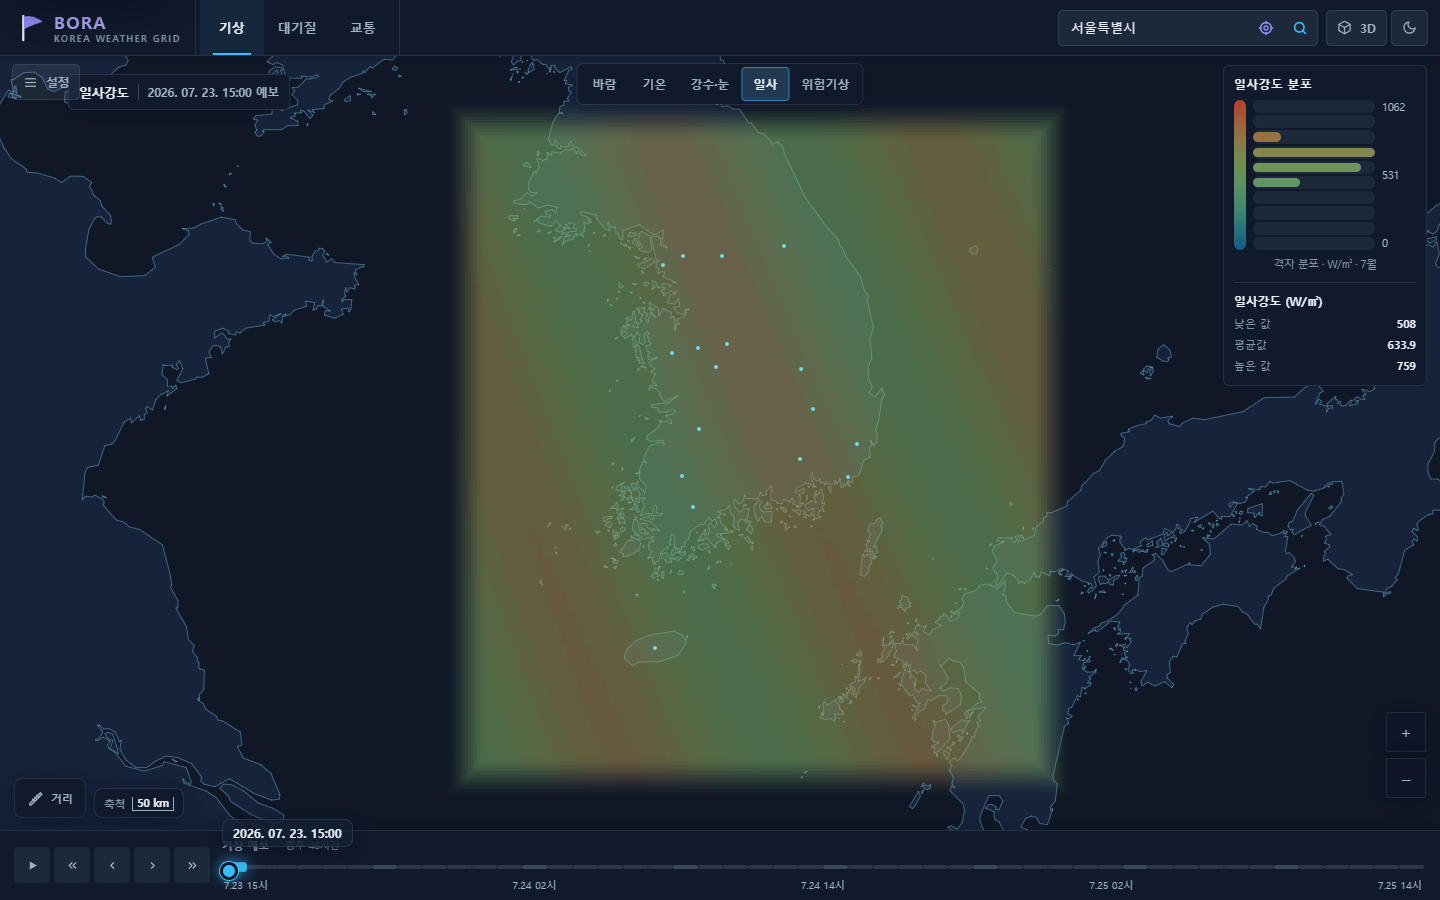
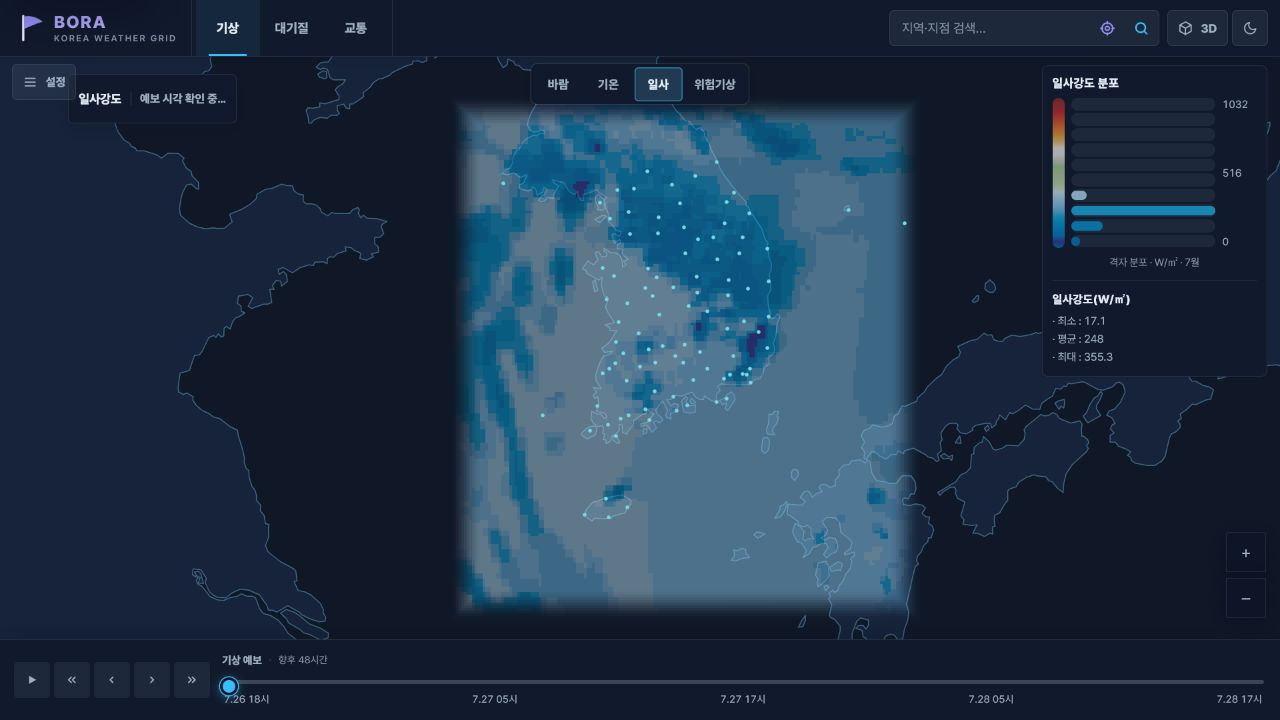
docs: 사용자 중심 README와 실제 화면 정리

diff --git a/README.md b/README.md
@@ -1,149 +1,184 @@
 <p align="center">
-  <img src="src/main/resources/static/favicon.svg" width="72" alt="BORA 로고">
+  <img src="src/main/resources/static/favicon.svg" width="76" alt="BORA 로고">
 </p>
 
 <h1 align="center">BORA · Korea Weather Grid</h1>
 
 <p align="center">
-  전국의 기상 격자 예보를 지도와 시간축으로 탐색하는 웹 애플리케이션입니다.<br>
-  바람의 흐름부터 기온·강수·습도·하늘상태·파고까지 한 화면에서 비교할 수 있습니다.
+  숫자로 흩어진 기상 예보를 <strong>지도 위의 흐름과 변화</strong>로 보여주는 웹 애플리케이션입니다.<br>
+  전국 격자부터 원하는 지점의 48시간 예보까지 한 화면에서 탐색할 수 있습니다.
 </p>
 
 <p align="center">
-  <a href="https://bora-weather.dlwnstndlwld.workers.dev"><strong>웹에서 BORA 열기</strong></a>
+  <a href="https://bora-weather.dlwnstndlwld.workers.dev"><strong>웹에서 바로 사용하기</strong></a>
+  ·
+  <a href="#빠르게-사용하기">사용 방법</a>
+  ·
+  <a href="#로컬에서-실행하기">로컬 실행</a>
 </p>
 
-![전국 바람 분포와 48시간 예보 시간축](docs/images/weather-overview.png)
+![전국 바람 분포와 향후 48시간 예보 시간축](docs/images/weather-overview.png)
 
-## BORA로 할 수 있는 일
+## 프로젝트 소개
 
-- 전국 기상 분포를 색상, 흐름선, 등치선으로 비교
-- 현재 발표 자료를 기준으로 향후 48시간 예보 탐색
-- 지역 검색 또는 지도 선택으로 지점별 풍향·풍속 시계열 확인
-- 범례에서 값의 범위와 전국 격자 분포 비율 확인
-- 현재 기상장을 3D 지형 또는 지구본으로 탐색
-- 대기질, 도로 CCTV, 위험기상 자료를 별도 레이어로 확인
-- 거리 측정, 대표 지점 표시, 어두운 테마와 밝은 테마 전환
+날씨 API를 화면에 붙여 보면 값 자체는 쉽게 확인할 수 있지만, **어디에서 강해지고 어느 방향으로
+이동하는지**는 숫자만으로 파악하기 어렵습니다. BORA는 이 차이를 줄이기 위해 시작했습니다.
 
-## 사용 방법
+격자 예보를 색상과 흐름선으로 표현하고, 같은 시각의 대기질·도로 상황·위험기상을 겹쳐 볼 수
+있도록 구성했습니다. 기능을 늘리는 것보다 사용자가 현재 보고 있는 값과 시각, 단위, 출처를
+놓치지 않게 만드는 데 더 신경 썼습니다.
 
-1. 상단에서 `기상`, `대기질`, `교통` 중 확인할 영역을 선택합니다.
-2. 기상 화면에서는 `바람`, `기온`, `강수·눈`, `일사`, `위험기상`을 전환합니다.
-3. 화면 아래 시간축을 움직여 같은 요소의 예보 변화를 비교합니다.
-4. 지역 이름을 검색하면 해당 지점의 48시간 시계열을 열 수 있습니다.
-5. `3D` 버튼으로 현재 분포를 입체 지형에서 확인합니다.
+## 핵심 기능
+
+| 기능 | 할 수 있는 일 |
+|---|---|
+| 전국 기상 격자 | 바람, 기온, 강수·눈, 일사, 습도, 하늘상태, 파고를 색상·흐름선·등치선으로 비교 |
+| 48시간 시간축 | 현재 발표 자료를 기준으로 예보 시각을 한 시간 단위로 이동하거나 자동 재생 |
+| 지점별 예보 | 지역명 또는 위·경도로 원하는 지점의 풍향·풍속과 시간대별 상세예보 확인 |
+| 대기질 | AirKorea PM10·PM2.5 관측값과 같은 시각의 바람 흐름을 함께 확인 |
+| 교통 | 지도 축척에 맞춰 ITS 도로 CCTV 위치를 조회하고 선택한 영상만 재생 |
+| 3D 지도 | 선택한 기상 격자를 지형 또는 지구본 위에서 회전·확대하며 탐색 |
+| 지도 도구 | 거리 측정, 대표 지점 표시, 배경지도 선택, 밝은·어두운 테마 전환 |
 
 ## 실제 동작 화면
 
-아래 이미지는 저장소의 애플리케이션을 브라우저에서 직접 실행해 캡처했습니다.
-별도로 데모라고 표시한 일사 화면을 제외하면 2026년 7월 23~24일 실데이터 응답으로
-확인한 화면입니다.
+아래 이미지는 **2026년 7월 26일 배포된 BORA를 브라우저에서 직접 조작해 캡처한 화면**입니다.
+예보 시각과 관측값은 접속 시점 및 제공기관의 갱신 상태에 따라 달라집니다.
+
+### 전국 분포 비교
+
+바람은 흐름선으로 이동 방향을, 기온과 일사는 색상 및 구간별 비율로 전국 분포를 보여줍니다.
+하단 시간축을 움직이면 같은 요소가 향후 48시간 동안 어떻게 달라지는지 비교할 수 있습니다.
 
 <table>
   <tr>
     <td width="50%">
-      <img src="docs/images/temperature-map.png" alt="전국 기온 분포">
-      <p align="center"><strong>기온 분포</strong><br>전국 격자와 구간별 비율</p>
+      <img src="docs/images/temperature-map.png" alt="전국 기온 격자 분포">
+      <p align="center"><strong>기온 분포</strong><br>격자별 기온과 구간별 비율</p>
     </td>
     <td width="50%">
-      <img src="docs/images/precipitation-map.png" alt="전국 1시간 강수량 분포">
-      <p align="center"><strong>1시간 강수량</strong><br>강수 강도와 무강수 영역</p>
+      <img src="docs/images/solar-map.png" alt="전국 일사 강도 격자 분포">
+      <p align="center"><strong>일사 강도</strong><br>지면 하향단파복사의 공간 분포</p>
     </td>
   </tr>
 </table>
 
-### VWorld 도로 배경지도
+### 대기질과 도로 상황
 
-![VWorld 도로 배경지도 위의 전국 바람 분포](docs/images/vworld-road-map.png)
+대기질 화면은 측정소를 등급별로 묶어 보여주고, 바람 흐름을 함께 표시해 주변 상황을 빠르게
+비교할 수 있게 했습니다. 교통 화면은 현재 지도 범위에 포함된 CCTV만 요청해 지도 복잡도와
+불필요한 네트워크 사용을 줄였습니다.
 
-VWorld Base 타일과 PBF 벡터 도로를 OpenLayers에 직접 연결한 실제 화면입니다. 기상 격자와
-바람 흐름은 같은 지도 위에 유지됩니다. VWorld 키가 없거나 타일을 불러오지 못하면
-OpenStreetMap 도로지도로 자동 전환됩니다.
+<table>
+  <tr>
+    <td width="50%">
+      <img src="docs/images/air-quality.png" alt="전국 PM2.5 관측과 바람 흐름">
+      <p align="center"><strong>PM2.5 대기질</strong><br>측정소 등급과 바람 흐름</p>
+    </td>
+    <td width="50%">
+      <img src="docs/images/traffic-cctv.png" alt="도로 지도 위 ITS CCTV 위치">
+      <p align="center"><strong>도로 CCTV</strong><br>현재 지도 범위의 CCTV 위치</p>
+    </td>
+  </tr>
+</table>
 
 ### 지역별 48시간 예보
 
-![서울특별시 48시간 풍향·풍속 시계열](docs/images/location-forecast.png)
+![서울 지점의 향후 48시간 풍향과 풍속 시계열](docs/images/location-forecast.png)
 
-서울 좌표를 검색해 연 실제 화면입니다. 기상청 단기예보 응답으로 만든 48시간
-풍향·풍속 시계열과 기온, 강수확률, 강수량, 습도, 파고를 시간대별로 함께 보여줍니다.
+지역 검색 결과는 지도 이동으로 끝내지 않고, 선택 지점의 시계열과 시간대별 상세예보까지
+한 번에 엽니다. 차트에는 첫 예보값, 48시간 범위, 대표 풍향을 먼저 보여주고 원본 수치도
+별도로 확인할 수 있게 구성했습니다.
 
-### 전국 대기질
+### 3D 기상 지도
 
-![전국 PM2.5 관측과 바람 흐름](docs/images/air-quality.png)
+![풍속 격자를 입체 지형으로 표현한 3D 지도](docs/images/terrain-3d.png)
 
-AirKorea의 최신 PM2.5 관측을 등급별 측정소로 표시하고, 같은 시각의 바람 흐름을
-함께 비교합니다. 캡처 시점에는 전국 673개 측정소 응답을 확인했습니다.
+현재 선택한 격자를 입체 지형 또는 지구본으로 전환할 수 있습니다. 드래그 회전, 휠 확대,
+우클릭 이동을 지원하며 표면의 좌표와 값을 직접 확인할 수 있습니다.
 
-### 3D 기상 지형
+## 빠르게 사용하기
 
-![기온 분포 3D 지형 화면](docs/images/terrain-3d.png)
+1. 상단에서 `기상`, `대기질`, `교통` 중 확인할 영역을 선택합니다.
+2. 기상 화면에서는 `바람`, `기온`, `강수·눈`, `일사`, `위험기상`을 전환합니다.
+3. 화면 아래 시간축을 움직여 같은 요소의 예보 변화를 비교합니다.
+4. 검색창에 지역명을 입력하거나 위·경도를 지정해 지점별 48시간 예보를 엽니다.
+5. 더 자세히 보고 싶다면 `설정`에서 표현 방식을 바꾸거나 `3D` 지도를 사용합니다.
 
-드래그로 회전하고 휠로 확대할 수 있으며, 지형과 지구본 표현을 전환할 수 있습니다.
+> 외부 자료를 불러오지 못해도 화면 전체를 막지 않고, 해당 기능에 오류 안내와 재시도 방법을
+> 표시합니다. VWorld 배경지도를 사용할 수 없는 환경에서는 OpenStreetMap으로 전환됩니다.
 
-### 일사 분포
+## 구성
 
-![일사강도 분포 데모 화면](docs/images/solar-map.png)
+```mermaid
+flowchart LR
+    User["브라우저"] --> UI["OpenLayers · Three.js UI"]
+    UI --> API["Spring Boot / Cloudflare Worker API"]
+    API --> KMA["기상청 API Hub"]
+    API --> Air["AirKorea"]
+    API --> ITS["국가교통정보센터 ITS"]
+    UI --> Map["VWorld / OpenStreetMap"]
+```
 
-일사 화면은 KIM 하향단파복사 자료를 표현합니다. 현재 실데이터 원천을 불러오지 못해
-위 캡처에는 로컬 데모 자료를 사용했습니다.
+- **Frontend**: OpenLayers, Three.js, JavaScript, CSS
+- **Backend**: Java 17, Spring Boot 4, Cloudflare Workers
+- **Test**: JUnit, Node.js test runner, Playwright E2E
+- **운영 원칙**: API 키는 서버 환경변수로만 주입하고 브라우저나 저장소에 포함하지 않습니다.
 
-## 제공 정보와 현재 연결 상태
-
-| 영역 | 제공 정보 | 현재 확인 상태 |
-|---|---|---|
-| 기상 격자 | 바람, 기온, 강수량, 강수형태, 적설, 습도, 하늘상태, 파고 | 실데이터 응답과 지도 렌더링 확인 |
-| 일사 | 지면 하향단파복사 | 화면·범례 동작 확인, 실데이터 원천은 현재 미연결 |
-| 지점 예보 | 48시간 풍향·풍속 차트, 시간대별 상세예보 | 기상청 실데이터 49개 시간대 응답과 화면 렌더링 확인 |
-| 대기질 | PM10, PM2.5 측정소 | AirKorea 실데이터 응답과 전국 측정소 렌더링 확인 |
-| 교통 | ITS 도로 CCTV와 HLS 영상 | 자격 증명은 연결됐으나 Cloudflare에서 ITS 원점 연결 시간 초과 확인 중 |
-| 위험기상 | 기상특보, 태풍 경로, 최근 낙뢰 | 태풍·낙뢰 실데이터 응답 확인, 기상특보 캐시 원천 점검 필요 |
-| 도로 배경지도 | VWorld Base·PBF 벡터 도로, OpenStreetMap 대체지도 | VWorld 실타일·벡터 렌더링과 자동 대체 확인 |
-
-외부 자료가 연결되지 않았을 때는 기상 지도를 유지하면서 해당 기능에 오류 안내와
-재시도 버튼을 표시합니다. 예보와 관측 자료는 제공기관의 갱신 시각, 통신 상태,
-자격 증명에 따라 달라질 수 있습니다.
+Spring과 Cloudflare 배포가 같은 UI 자산과 DOM 계약을 사용하도록 구성해, 실행 환경이 달라도
+기능과 접근성 동작이 달라지지 않도록 관리합니다.
 
 ## 로컬에서 실행하기
 
-JDK 17이 필요합니다. 외부 API 없이 화면과 상호작용을 확인하려면 데모 모드를 사용합니다.
-
-```bash
-WEATHER_GRID_DEMO_MODE=true ./gradlew bootRun --args='--server.port=8080'
-```
+JDK 17이 필요합니다. 외부 API 키 없이 UI와 상호작용을 확인하려면 데모 모드로 실행합니다.
 
 ```powershell
 $env:WEATHER_GRID_DEMO_MODE = "true"
 .\gradlew.bat bootRun --args='--server.port=8080'
 ```
 
-브라우저에서 [http://localhost:8080](http://localhost:8080)을 엽니다.
+macOS 또는 Linux에서는 다음 명령을 사용할 수 있습니다.
 
-실제 자료를 사용하려면 필요한 키를 저장소 파일에 넣지 말고 실행 환경변수로 주입합니다.
+```bash
+WEATHER_GRID_DEMO_MODE=true ./gradlew bootRun --args='--server.port=8080'
+```
 
-| 환경변수 | 용도 |
-|---|---|
-| `KMA_API_AUTH_KEY` | 기상청 API Hub |
-| `DATA_GO_KR_SERVICE_KEY` | AirKorea 등 공공데이터포털 API |
-| `ITS_API_KEY` | 국가교통정보센터 CCTV |
-| `VWORLD_API_KEY` | VWorld 2D·배경지도·WMTS/TMS API |
+실행 후 [http://localhost:8080](http://localhost:8080)을 엽니다. 기본 테스트는 다음과 같이
+실행합니다.
 
-VWorld 키에는 실제 실행 주소를 등록하고 2D 지도, 배경지도, WMTS/TMS API 이용 권한을
-허용해야 합니다. 키나 타일을 사용할 수 없으면 OpenStreetMap 도로지도로 자동 전환됩니다.
+```powershell
+.\gradlew.bat test
+```
 
-## 데이터 출처
+### 실제 데이터 연결
+
+개인 키 파일을 저장소에 커밋하지 말고 환경변수로 주입합니다.
+
+| 환경변수 | 용도 | 필수 여부 |
+|---|---|---|
+| `KMA_API_AUTH_KEY` | 기상청 API Hub | 필수 |
+| `DATA_GO_KR_SERVICE_KEY` | AirKorea 등 공공데이터포털 API | 필수 |
+| `ITS_API_KEY` | 국가교통정보센터 CCTV | 필수 |
+| `VWORLD_API_KEY` | VWorld 배경지도 및 벡터 도로 | 선택 |
+
+VWorld 키에는 실제 실행 도메인을 등록하고 필요한 2D 지도·배경지도·WMTS/TMS 권한을
+허용해야 합니다.
+
+## 데이터 출처와 이용 시 주의사항
 
 | 데이터 | 출처 |
 |---|---|
-| 기상 예보 | 기상청 API Hub 단기예보·KIM 자료 |
-| 대기질 | 한국환경공단 AirKorea 대기오염정보·측정소정보 |
-| 도로 CCTV | 국가교통정보센터 ITS |
-| 배경지도·경계 | 국토교통부 VWorld, OpenStreetMap contributors, Natural Earth 5.1.1 |
+| 기상 예보·위험기상 | [기상청 API Hub](https://apihub.kma.go.kr/) |
+| 대기질 | [한국환경공단 AirKorea](https://www.airkorea.or.kr/) |
+| 도로 CCTV | [국가교통정보센터 ITS](https://www.its.go.kr/opendata/) |
+| 배경지도·도로 | [VWorld](https://www.vworld.kr/), [OpenStreetMap contributors](https://www.openstreetmap.org/copyright) |
+| 지도 경계 | [Natural Earth](https://www.naturalearthdata.com/) |
 
-지도 경계는 시각화를 위한 자료이며 법적·지적 경계를 나타내지 않습니다. 기상 정보는
-안전과 생명을 좌우하는 단독 판단 근거로 사용하지 말고 제공기관의 공식 발표를 함께
+지도 경계는 시각화를 위한 자료이며 법적·지적 경계를 대신하지 않습니다. 기상 및 대기질
+정보는 안전이나 생명을 좌우하는 단독 판단 근거로 사용하지 말고 제공기관의 공식 발표를 함께
 확인해 주세요.
 
-## 더 알아보기
+## 문서
 
 - [현재 제공 범위와 알려진 제한](docs/known-limitations.md)
 - [기여 방법과 독립 구현 원칙](CONTRIBUTING.md)
